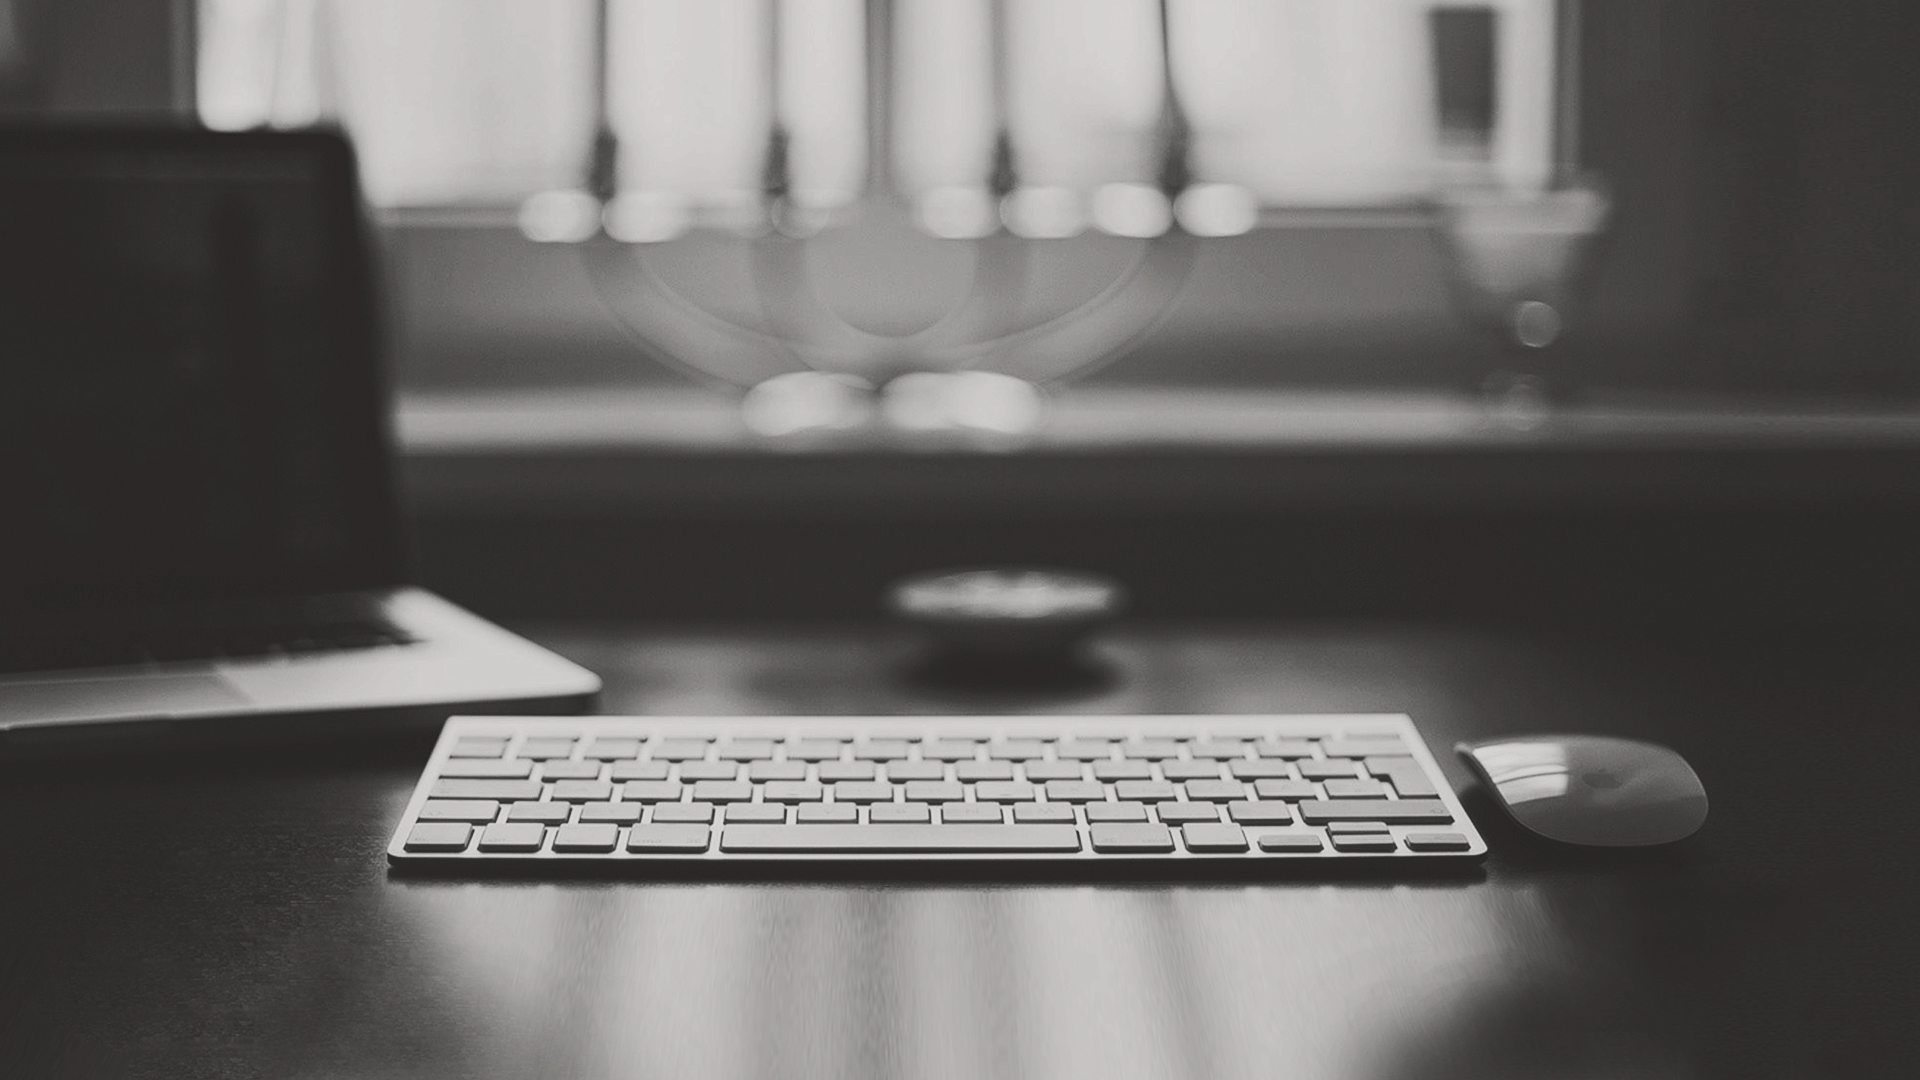
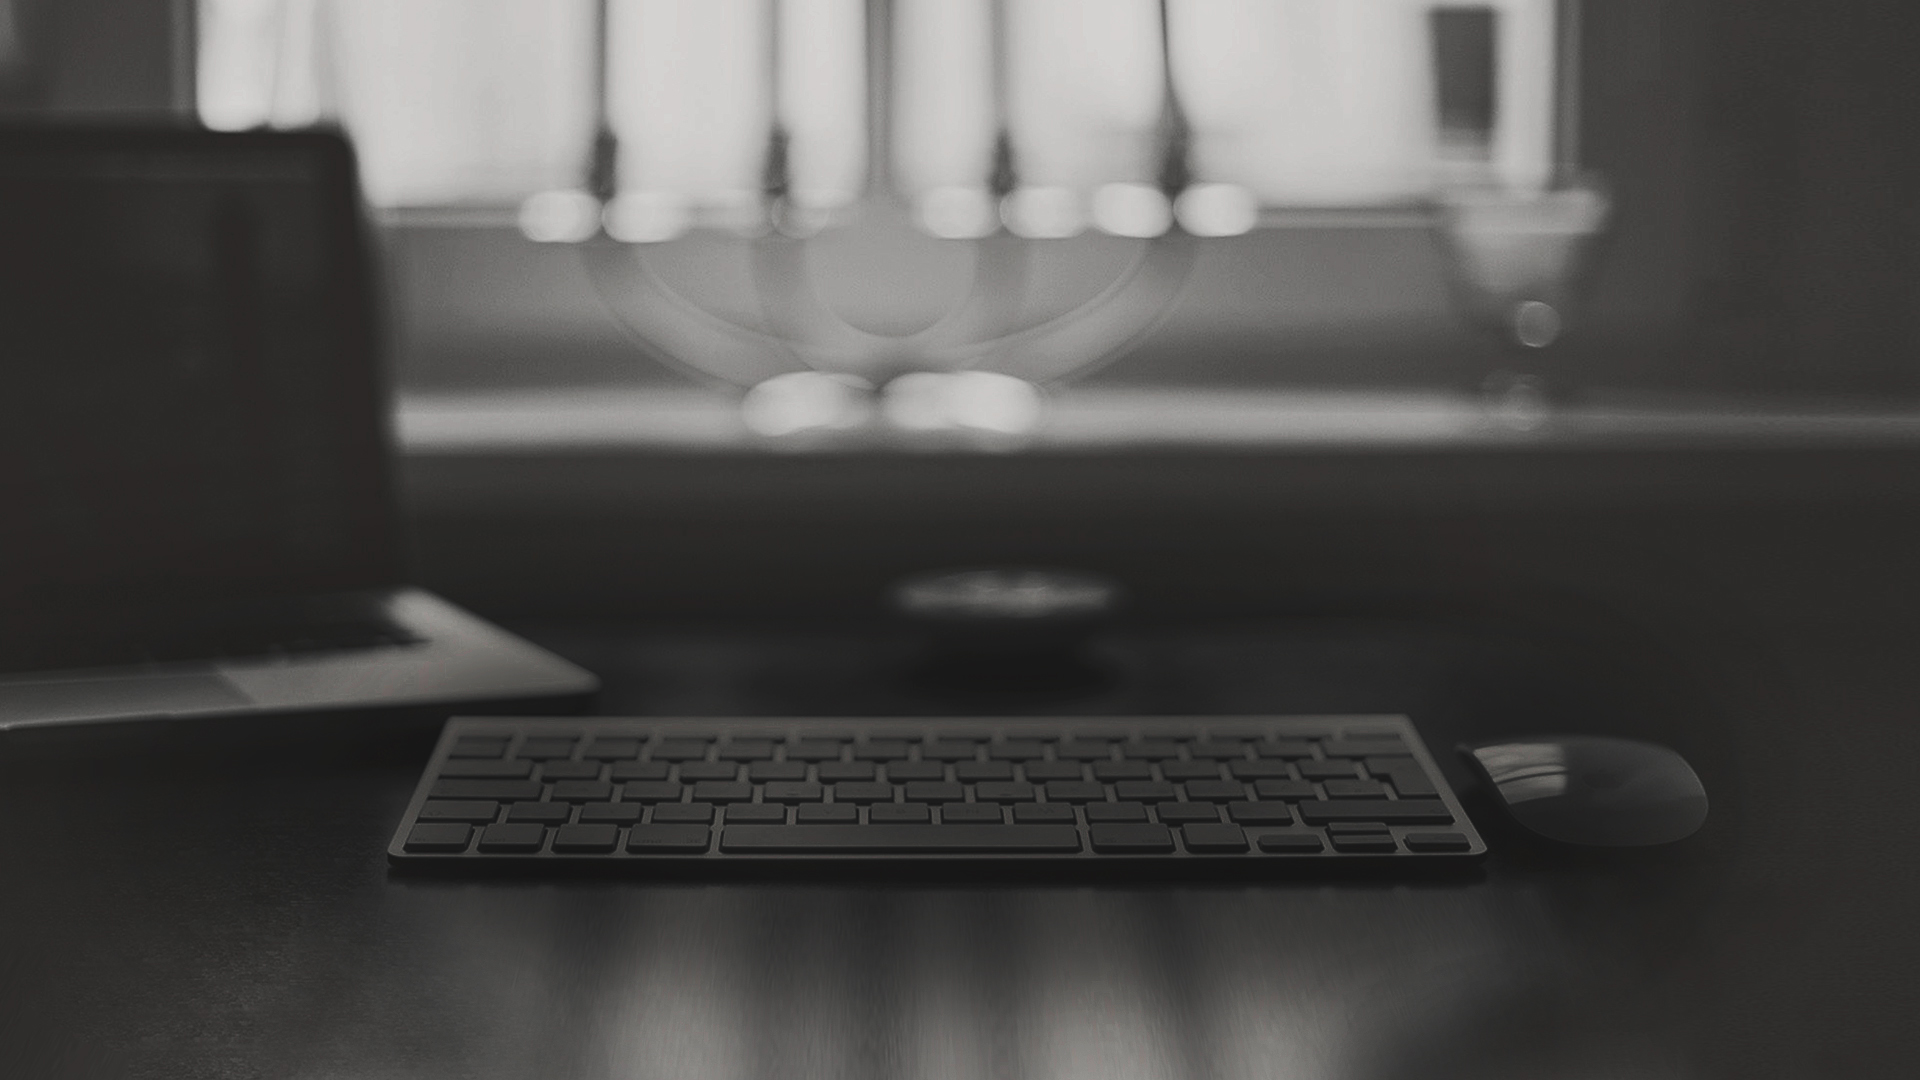
Implementado redimensionamento da imagem de background de acordo com o tamanho da janela. Imagem foi levemente escurecida para melhor visualização do botão "Me Avise". Texto do botão e input traduzidos Pt-Br.

Changed region(s): [[0.0, 0.5194, 0.9062, 1.0]]

diff --git a/index.html b/index.html
@@ -184,9 +184,9 @@
                     <div class="subscribe-wrap">
                       <a id="subscribeBtn" class="btn btn-default btn-subscribe">
                         <i class="fa fa-bell-o animated infinite swing"></i> <!-- bell animation class `animated infinite swing` -->
-                        <span>Notify Me</span>
+                        <span>Me Avise</span>
                       </a>
-                      <input id="subscribeEmail" class="form-control" type="email" name="email" placeholder="Your Email Address">
+                      <input id="subscribeEmail" class="form-control" type="email" name="email" placeholder="Seu Endereço de Email">
                       <button id="subscribeSubmit" class="btn" type="submit"><i class="fa fa-envelope-o"></i></button>
                     </div>
                     <div class="form-notify"></div>

diff --git a/assets/css/custom.css b/assets/css/custom.css
@@ -9,4 +9,5 @@
 
 .site-bg-overlay {
   background: url("../img/site-background-image.jpg") no-repeat;
+  background-size: 100% 100%;
 }
